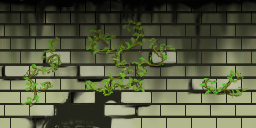
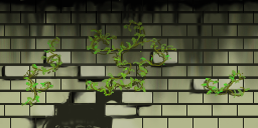
Fix the render of ground and wall sprites.

diff --git a/code/local/GroundManager.cc b/code/local/GroundManager.cc
@@ -42,10 +42,12 @@ namespace huaca {
     if(randNb > 6){
         randNb = 0;
     }
-    quad[0].texCoords = sf::Vector2f((randNb) * TILEWIDTH, 0);
-    quad[1].texCoords = sf::Vector2f((randNb + 1) * TILEWIDTH, 0);
-    quad[2].texCoords = sf::Vector2f((randNb + 1) * TILEWIDTH, TILEWIDTH);
-    quad[3].texCoords = sf::Vector2f((randNb) * TILEWIDTH, TILEWIDTH);
+
+    int x_coor = 1 + randNb * TILEWIDTH;
+    quad[0].texCoords = sf::Vector2f(x_coor, 1);
+    quad[1].texCoords = sf::Vector2f(x_coor + TILEWIDTH, 1);
+    quad[2].texCoords = sf::Vector2f(x_coor + TILEWIDTH, TILEWIDTH);
+    quad[3].texCoords = sf::Vector2f(x_coor, TILEWIDTH);
 
     for (int i = 0; i < 4; ++i) {
       m_vertices.append(quad[i]);
@@ -68,10 +70,12 @@ namespace huaca {
 
     // Define texture
     int randNb = m_random.computeUniformInteger(0,4);
-    quad[0].texCoords = sf::Vector2f((randNb) * TILEWIDTH, TILEWIDTH);
-    quad[1].texCoords = sf::Vector2f((randNb + 1) * TILEWIDTH, TILEWIDTH);
-    quad[2].texCoords = sf::Vector2f((randNb + 1) * TILEWIDTH, TILEHEIGHT + TILEWIDTH);
-    quad[3].texCoords = sf::Vector2f((randNb) * TILEWIDTH, TILEHEIGHT + TILEWIDTH);
+    int x_coor = 1 + randNb * TILEWIDTH;
+    int y_coor = 2 + TILEWIDTH;
+    quad[0].texCoords = sf::Vector2f(x_coor, y_coor);
+    quad[1].texCoords = sf::Vector2f(x_coor + TILEWIDTH, y_coor);
+    quad[2].texCoords = sf::Vector2f(x_coor + TILEWIDTH, y_coor + TILEHEIGHT);
+    quad[3].texCoords = sf::Vector2f(x_coor, y_coor + TILEHEIGHT);
 
     for (int i = 0; i < 4; ++i) {
       m_vertices.append(quad[i]);
